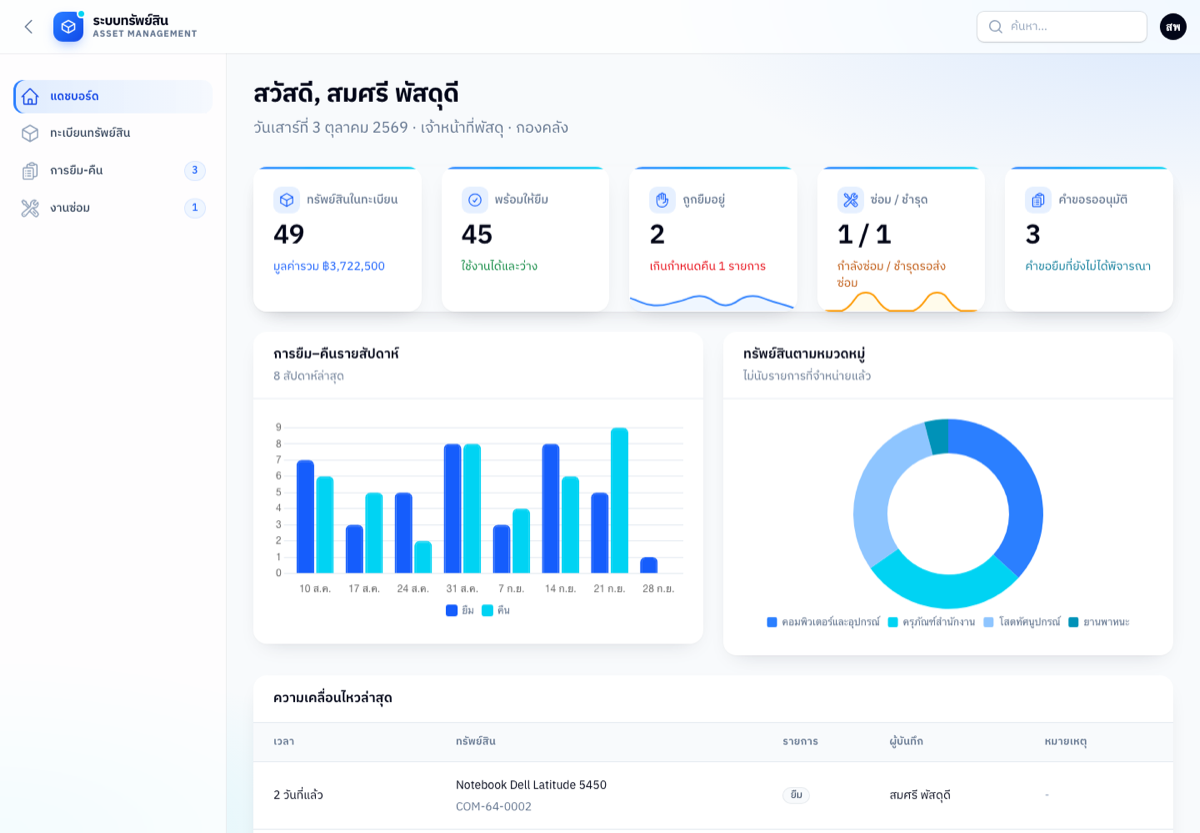
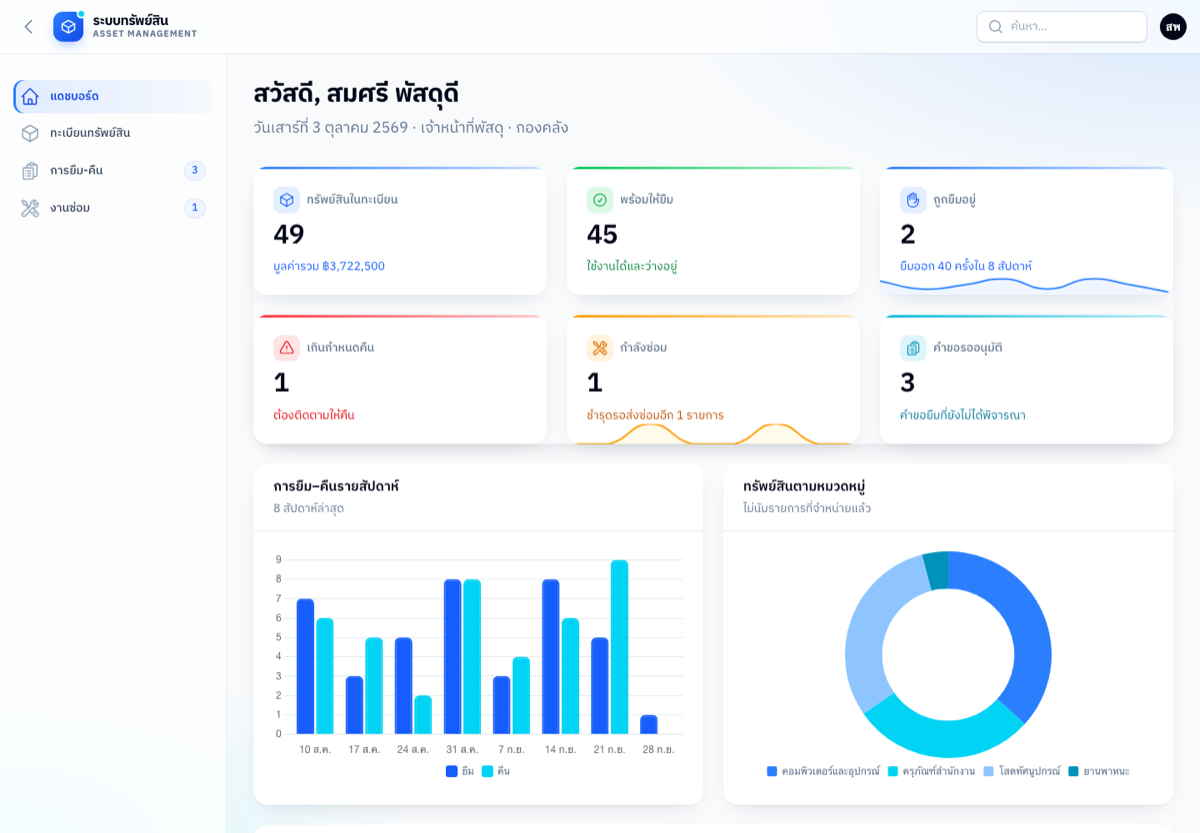
Dashboard: six tone-coloured stat cards, equal chart cards, paged feed
- Split "overdue" into its own card (six cards, 3x2). Each card is
  tagged asset-tone-{color} so the theme tints its icon and top bar.
- Both charts fill a fixed 280px frame (maintainAspectRatio off), so the
  two chart cards are the same size.
- Recent movements: full pagination, 10 per page, with page numbers and
  total (TableWidget defaults to simple next/previous).

Changed region(s): [[0.2158, 0.1873, 0.9558, 0.9676], [0.8017, 0.1873, 0.9558, 0.2497], [0.2158, 0.9364, 0.2775, 0.9988]]

diff --git a/resources/css/filament/asset-theme.css b/resources/css/filament/asset-theme.css
@@ -193,19 +193,27 @@
     box-shadow: var(--asset-shadow);
 }
 
+/* Each stat card carries asset-tone-{color} (see AssetStats::stat) to tint its icon and top bar. */
 .fi-wi-stats-overview-stat {
+    --tone-300: var(--primary-300);
+    --tone-500: var(--primary-500);
+    --tone-600: var(--primary-600);
     position: relative;
     overflow: hidden;
     transition: transform 0.2s, box-shadow 0.2s;
 }
+
+.asset-tone-success { --tone-300: var(--success-300); --tone-500: var(--success-500); --tone-600: var(--success-600); }
+.asset-tone-danger { --tone-300: var(--danger-300); --tone-500: var(--danger-500); --tone-600: var(--danger-600); }
+.asset-tone-warning { --tone-300: var(--warning-300); --tone-500: var(--warning-500); --tone-600: var(--warning-600); }
+.asset-tone-accent { --tone-300: var(--accent-300); --tone-500: var(--accent-500); --tone-600: var(--accent-600); }
 
 .fi-wi-stats-overview-stat::before {
     content: "";
     position: absolute;
     inset: 0 0 auto 0;
     height: 3px;
-    background: linear-gradient(90deg, var(--primary-500), var(--accent-400));
-    opacity: 0.85;
+    background: linear-gradient(90deg, var(--tone-500), color-mix(in oklab, var(--tone-500) 25%, transparent));
 }
 
 a.fi-wi-stats-overview-stat:hover,
@@ -224,12 +232,22 @@ a.fi-wi-stats-overview-stat:hover,
     height: 2rem;
     padding: 0.4rem;
     border-radius: 0.6rem;
-    color: var(--primary-600);
-    background: color-mix(in oklab, var(--primary-500) 12%, transparent);
+    color: var(--tone-600);
+    background: color-mix(in oklab, var(--tone-500) 13%, transparent);
 }
 
 .dark .fi-wi-stats-overview-stat-label-ctn .fi-icon {
-    color: var(--primary-300);
+    color: var(--tone-300);
+}
+
+/* Chart cards: same height side by side. The frame height matches the widgets' $maxHeight (280px). */
+.fi-wi-chart,
+.fi-wi-chart > .fi-section {
+    height: 100%;
+}
+
+.fi-wi-chart .fi-wi-chart-canvas-ctn {
+    height: 280px;
 }
 
 /* Tables */

diff --git a/app/Filament/Widgets/AssetStats.php b/app/Filament/Widgets/AssetStats.php
@@ -19,7 +19,7 @@ class AssetStats extends StatsOverviewWidget
     /** The numbers only change on ledger actions; no need to re-query every 5 seconds. */
     protected ?string $pollingInterval = null;
 
-    protected int|array|null $columns = ['md' => 3, 'xl' => 5];
+    protected int|array|null $columns = ['md' => 2, 'lg' => 3];
 
     protected function getStats(): array
     {
@@ -42,31 +42,36 @@ class AssetStats extends StatsOverviewWidget
         $pending = (clone $loans)->where('status', LoanStatus::Pending)->count();
         $overdue = (clone $loans)->overdue()->count();
 
+        $borrows = LoansPerWeekChart::weeklyCounts(MovementType::Borrow);
+
         return [
-            Stat::make('ทรัพย์สินในทะเบียน', number_format((int) $assets->in_register))
-                ->description('มูลค่ารวม ฿'.number_format((float) $assets->total_cost))
-                ->color('primary')
-                ->icon(Heroicon::OutlinedCube),
-            Stat::make('พร้อมให้ยืม', number_format((int) $assets->ready))
-                ->description('ใช้งานได้และว่าง')
-                ->color('success')
-                ->icon(Heroicon::OutlinedCheckCircle),
-            Stat::make('ถูกยืมอยู่', number_format((int) $assets->on_loan))
-                ->description($overdue > 0 ? "เกินกำหนดคืน {$overdue} รายการ" : 'ไม่มีรายการเกินกำหนด')
-                ->descriptionColor($overdue > 0 ? 'danger' : 'gray')
-                ->color('primary')
-                ->chart(array_values(LoansPerWeekChart::weeklyCounts(MovementType::Borrow)))
-                ->icon(Heroicon::OutlinedHandRaised),
-            Stat::make('ซ่อม / ชำรุด', number_format((int) $assets->in_repair).' / '.number_format((int) $assets->waiting_repair))
-                ->description('กำลังซ่อม / ชำรุดรอส่งซ่อม')
-                ->color('warning')
-                ->chart(array_values(LoansPerWeekChart::weeklyCounts(MovementType::SendRepair)))
-                ->icon(Heroicon::OutlinedWrenchScrewdriver),
-            Stat::make('คำขอรออนุมัติ', number_format($pending))
+            $this->stat('ทรัพย์สินในทะเบียน', $assets->in_register, 'primary', Heroicon::OutlinedCube)
+                ->description('มูลค่ารวม ฿'.number_format((float) $assets->total_cost)),
+            $this->stat('พร้อมให้ยืม', $assets->ready, 'success', Heroicon::OutlinedCheckCircle)
+                ->description('ใช้งานได้และว่างอยู่'),
+            $this->stat('ถูกยืมอยู่', $assets->on_loan, 'primary', Heroicon::OutlinedHandRaised)
+                ->description('ยืมออก '.array_sum($borrows).' ครั้งใน 8 สัปดาห์')
+                ->chart(array_values($borrows)),
+            $this->stat('เกินกำหนดคืน', $overdue, $overdue > 0 ? 'danger' : 'success', Heroicon::OutlinedExclamationTriangle)
+                ->description($overdue > 0 ? 'ต้องติดตามให้คืน' : 'ไม่มีรายการค้างคืน')
+                ->url(LoanResource::getUrl()),
+            $this->stat('กำลังซ่อม', $assets->in_repair, 'warning', Heroicon::OutlinedWrenchScrewdriver)
+                ->description('ชำรุดรอส่งซ่อมอีก '.number_format((int) $assets->waiting_repair).' รายการ')
+                ->chart(array_values(LoansPerWeekChart::weeklyCounts(MovementType::SendRepair))),
+            $this->stat('คำขอรออนุมัติ', $pending, 'accent', Heroicon::OutlinedClipboardDocumentList)
                 ->description('คำขอยืมที่ยังไม่ได้พิจารณา')
-                ->url(LoanResource::getUrl())
-                ->color('accent')
-                ->icon(Heroicon::OutlinedClipboardDocumentList),
+                ->url(LoanResource::getUrl()),
         ];
+    }
+
+    /**
+     * The asset-tone-* class lets the theme tint the icon and top bar to match the card.
+     */
+    private function stat(string $label, int|string|null $value, string $tone, Heroicon $icon): Stat
+    {
+        return Stat::make($label, number_format((int) $value))
+            ->color($tone)
+            ->icon($icon)
+            ->extraAttributes(['class' => "asset-tone-{$tone}"]);
     }
 }

diff --git a/app/Filament/Widgets/RecentMovements.php b/app/Filament/Widgets/RecentMovements.php
@@ -6,6 +6,7 @@ use App\Filament\Resources\Assets\AssetResource;
 use App\Filament\ThaiDate;
 use App\Models\AssetMovement;
 use Filament\Tables\Columns\TextColumn;
+use Filament\Tables\Enums\PaginationMode;
 use Filament\Tables\Table;
 use Filament\Widgets\TableWidget;
 use Illuminate\Database\Eloquent\Builder;
@@ -25,9 +26,11 @@ class RecentMovements extends TableWidget
                 ->whereIn('asset_id', AssetResource::getEloquentQuery()->select('id'))
                 ->with(['asset', 'actor'])
                 ->latest('occurred_at')
-                ->latest('id')
-                ->limit(8))
-            ->paginated(false)
+                ->latest('id'))
+            // TableWidget defaults to simple (next/previous only); show page numbers and the total.
+            ->paginationMode(PaginationMode::Default)
+            ->paginated([10])
+            ->defaultPaginationPageOption(10)
             ->columns([
                 TextColumn::make('occurred_at')
                     ->label('เวลา')

diff --git a/app/Filament/Widgets/LoansPerWeekChart.php b/app/Filament/Widgets/LoansPerWeekChart.php
@@ -17,7 +17,7 @@ class LoansPerWeekChart extends ChartWidget
 
     protected ?string $description = '8 สัปดาห์ล่าสุด';
 
-    protected ?string $maxHeight = '260px';
+    protected ?string $maxHeight = '280px';
 
     protected ?string $pollingInterval = null;
 
@@ -75,6 +75,8 @@ class LoansPerWeekChart extends ChartWidget
     protected function getOptions(): array
     {
         return [
+            // Fill the fixed-height frame so both chart cards come out the same size.
+            'maintainAspectRatio' => false,
             'plugins' => ['legend' => ['position' => 'bottom']],
             'scales' => ['y' => ['beginAtZero' => true, 'ticks' => ['precision' => 0]]],
         ];

diff --git a/app/Filament/Widgets/AssetsByCategoryChart.php b/app/Filament/Widgets/AssetsByCategoryChart.php
@@ -16,7 +16,7 @@ class AssetsByCategoryChart extends ChartWidget
 
     protected ?string $description = 'ไม่นับรายการที่จำหน่ายแล้ว';
 
-    protected ?string $maxHeight = '260px';
+    protected ?string $maxHeight = '280px';
 
     protected ?string $pollingInterval = null;
 
@@ -47,6 +47,7 @@ class AssetsByCategoryChart extends ChartWidget
     protected function getOptions(): array
     {
         return [
+            'maintainAspectRatio' => false,
             'cutout' => '64%',
             'plugins' => ['legend' => ['position' => 'bottom']],
             'scales' => ['x' => ['display' => false], 'y' => ['display' => false]],

diff --git a/tests/Feature/PanelTest.php b/tests/Feature/PanelTest.php
@@ -256,7 +256,7 @@ class PanelTest extends TestCase
         AssetLedger::handOver($loan, $this->officer);
 
         $this->actingAs($this->officer);
-        Livewire::test(AssetStats::class)->assertSee('เกินกำหนดคืน 1 รายการ');
+        Livewire::test(AssetStats::class)->assertSee('เกินกำหนดคืน')->assertSee('ต้องติดตามให้คืน');
         Livewire::test(RecentMovements::class)->assertCanSeeTableRecords($asset->movements);
         Livewire::test(LoansPerWeekChart::class)->assertOk();
         Livewire::test(AssetsByCategoryChart::class)->assertOk();
